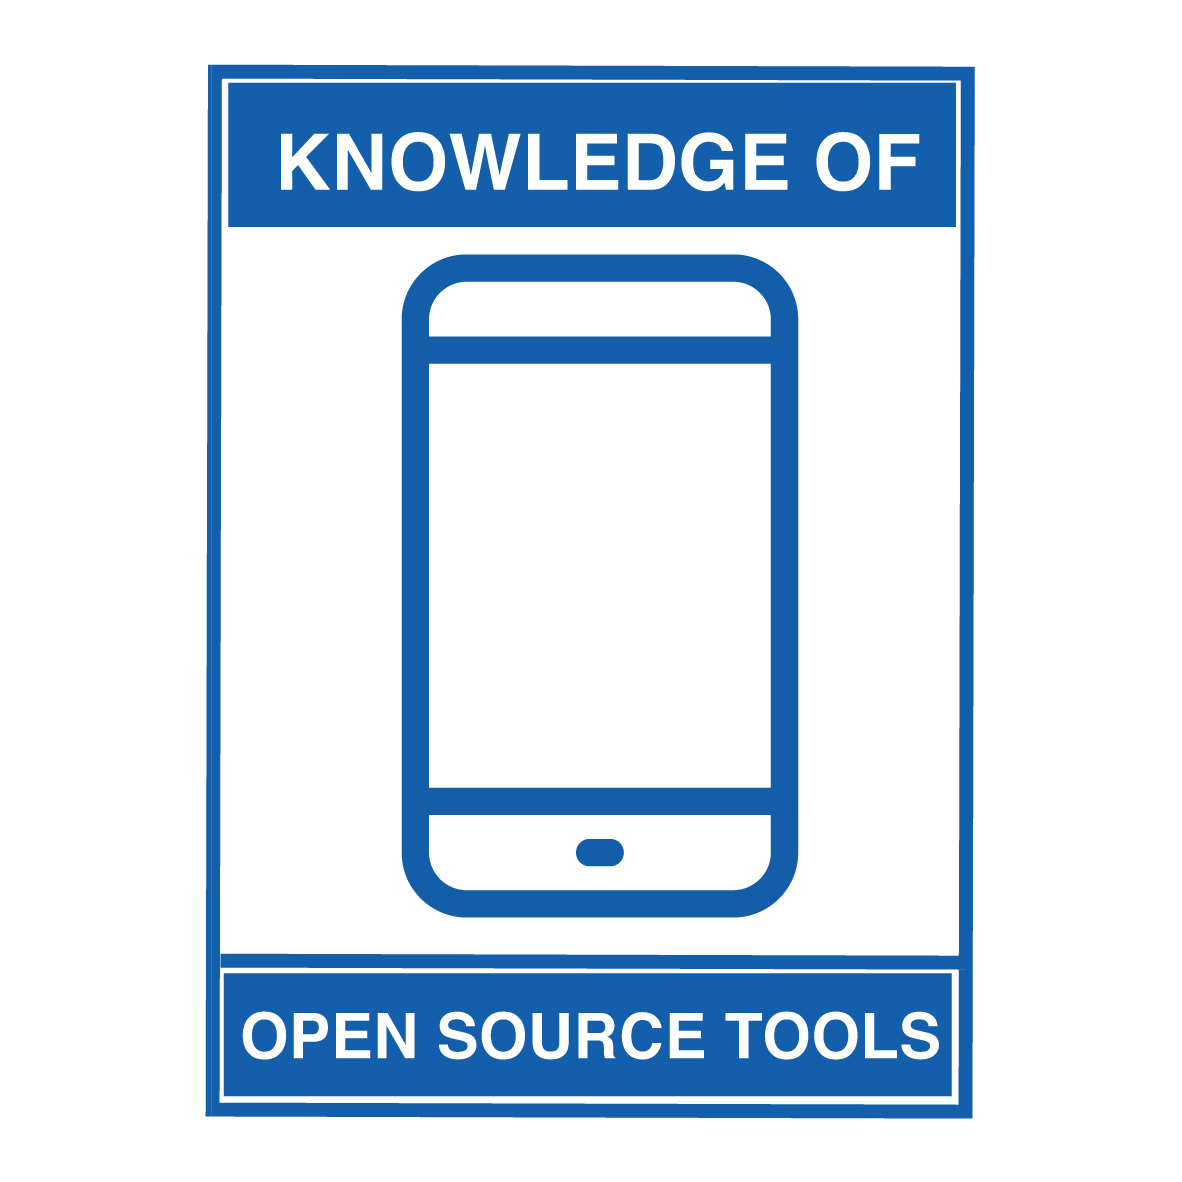
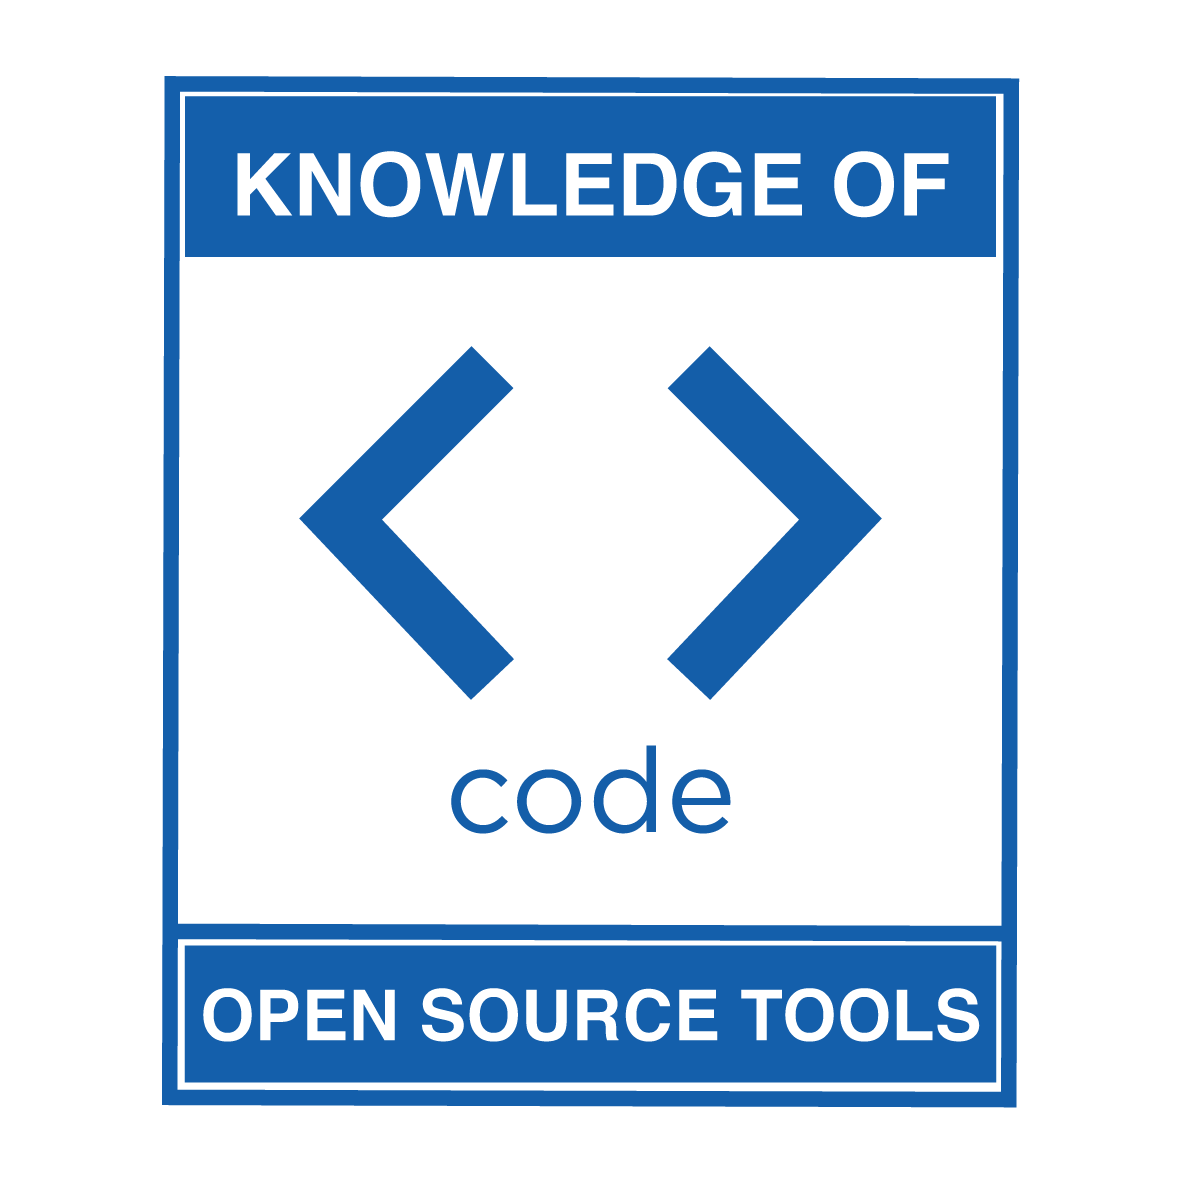
Added stamp images and Prioritizing Feedback blog post

Changed region(s): [[0.1218, 0.0305, 0.8832, 0.9442]]

diff --git a/content/blog/2020-08-14-PrioritizingFeedback.md b/content/blog/2020-08-14-PrioritizingFeedback.md
@@ -1,0 +1,39 @@
+---
+title: "Synthesizing and Prioritizing Feedback"
+date: 2020-08-14 09:00:00
+author: "Ashley"
+main_image: "images/AXIS/AxisLogo.png" # 342px × 178p ~2x1
+main_image_caption: "Image of the AXIS event logo"
+tags: [AXIS", "USABLE", "Feedback Collection", "Guidebook", "ADOPTABLE"]
+draft: false
+---
+
+**Collecting feedback from at-risk users is a critical first step, but it is not the final step in the process. To maximize the impact of the feedback loop between end-users and developers, trainers, auditors, and other facilitators should ensure that the feedback shared is of high quality, relevant, and consistent. This requires time spent reviewing, synthesizing, and prioritizing which pieces of feedback should be shared with the developer. The questions below will help guide trainers, auditors, and facilitators through this process.**
+
+### What are the common areas of confusion or frustration?
+
+It is important to focus on feedback that is common among multiple users. If multiple users are experiencing similar frustrations, this demonstrates that it is a shared challenge and not a one-off “user” error or misunderstanding. Understanding the scale of the issue will also help the developer prioritize the improvement.
+
+### What are the common features or processes that users appreciate or are able to navigate easily?
+
+While it is easy to focus on areas of a tool that users struggle with, it can also be helpful to highlight features or processes that users appreciate. This information will ensure that developers do not change or remove these features in the future.
+
+### How frequently does the user need to complete the frustrating or confusing task?
+
+Consider the frequency of the task, as well as how important the task may be to the overall function of the tool. For example, if the user is struggling with a particular task within the tool, but it is not a task they will need to complete regularly (such as configuring settings), this may not be a priority for the developer. However, if it is a task that the user will need to complete on a regular basis that is causing frustration, this likely will be a priority for the developer. Alternatively, if a task does not need to be completed often, but is essential to the functioning of the tool, this can also be a major barrier that should be prioritized by the developer. For example, if a user struggles to install the program properly or setup the program to run, this may prevent them from properly using the tool, even though it may only need to be completed once.
+
+### Is this piece of feedback relevant and actionable?
+
+The facilitator, trainer, or auditor is also uniquely positioned to ensure that the feedback is relevant and useful. Not all users will have technical knowledge, which will influence the type of feedback that they are able to provide. For example, a user who does not understand how attackers could “spoof” a trusted contact even in a secure communication tool may not understand the importance of verifying contacts by comparing what is often presented as a very long code of letters and numbers, and therefore, never do it. While the specific complaint about the usability could be “this is too difficult / the code is too long;” a facilitator or trainer would be able to identify the root cause and help provide more actionable feedback to the developer. A request to “shorten” the code would likely be met with resistance from a cryptographic / security standpoint, but the trainer can suggest better ways to present critical information to the user (e.g., has the code changed?) and help identify more user-friendly but still cryptographically sound ways to present the information.
+
+### What concrete suggestions can I make based on the feedback collected?
+
+Beyond simply highlighting areas of confusion or frustration, the facilitator, trainer, or auditor is also a valuable voice when it comes to concrete suggestions for improvements. For example, if the language used on a specific button or configuration is confusing, suggest another word that may make the function of the button clearer to users. Similarly, instead of only highlighting that a specific word or phrase was not translated accurately, offer an alternative translation. These specific recommendations are very useful for the developer and give them concrete actions that they can take to improve the usability or accessibility of the tool or application.
+
+### How can I streamline the feedback process and maintain this feedback loop with the developer?
+
+Most developers receive ad-hoc feedback from passionate users, who typically have some level of technical knowledge, but do not usually represent the average user of the tool or application. Trainers, auditors, and facilitators are positioned to capture feedback from real users, prioritize it based on relevance and quality, and share it in a streamlined format. By formalizing this process, trainers and facilitators will be able to share feedback more regularly.
+
+### Stamp for this activity:
+
+<div style="text-align: center"><img src="/images/AXIS/PrioritizingFeedback.png" alt="Image of synthesizing and prioritizing feedback AXIS stamp" style="border: 0; padding: 1em;" /></div>

diff --git a/content/blog/2020-07-31-UXandHCD.md b/content/blog/2020-07-31-UXandHCD.md
@@ -3,12 +3,12 @@ title: "Human-Centered Design and User-Experience"
 date: 2020-07-31 09:00:00
 author: "Megan"
 main_image: "images/AXIS/AxisLogo.png" # 342px × 178p ~2x1
-main_image_caption: ""
+main_image_caption: "Image of the AXIS event logo"
 tags: [AXIS", "USABLE", "HCD", "Guidebook", "ADOPTABLE"]
 draft: false
 ---
 
-**Human-centered design** is a principle that intentionally places humans, their needs, their concerns, and their experiences front and center when building a system. This system could be a piece of software or a product, but it could also be a process like conducting a security assessment or creating a resource for your community. Co-creation is an integral part of human-centered design, products and software that are collaboratively developed are more likely to meet the needs of a broader user base. Components of human-centered design include: 
+**Human-centered design** is a principle that intentionally places humans, their needs, their concerns, and their experiences front and center when building a system. This system could be a piece of software or a product, but it could also be a process like conducting a security assessment or creating a resource for your community. Co-creation is an integral part of human-centered design, products and software that are collaboratively developed are more likely to meet the needs of a broader user base. Components of human-centered design include:
 
 - **Building empathy** with the users
 - **Identifying needs** based on observations, interactions, and user feedback
@@ -37,3 +37,7 @@ By involving trainers in the feedback process through the activities in the [UX 
 - Stanford University https://dschool.stanford.edu/resources/design-thinking-bootleg
 
 - SimplySecure https://simplysecure.org/knowledge-base/
+
+### Stamp for this activity:
+
+<div style="text-align: center"><img src="/images/AXIS/UXandHCD.png" alt="Image of User experience and human centered design AXIS stamp" style="border: 0; padding: 1em;" /></div>

diff --git a/content/blog/2020-08-07-SelectingTool.md b/content/blog/2020-08-07-SelectingTool.md
@@ -3,7 +3,7 @@ title: "Selecting a Tool and Identifying Developers During the Feedback Collecti
 date: 2020-08-07 09:00:00
 author: "Ashley"
 main_image: "images/AXIS/AxisLogo.png" # 342px × 178p ~2x1
-main_image_caption: ""
+main_image_caption: "Image of the AXIS event logo"
 tags: [AXIS", "USABLE", "HCD", "Guidebook", "ADOPTABLE"]
 draft: false
 ---
@@ -31,3 +31,7 @@ To maximize the impact of the feedback you are able to collect, look up the tool
 You may not always be able to know which method of feedback is preferred. If you do and you are comfortable or familiar with this method, contact the developers through this channel. If not, submit the feedback via the method with which you feel most comfortable. Submitting feedback via a less common channel is better than submitting no feedback.
 
 To make things a bit easier, USABLE has put together a quick list of products that have been vocal about wanting feedback from their users. This list of tools can be found *[here](https://usable.tools/pdfs/UXfeedbackCollectionGuidebook_ListOfTools.pdf).*
+
+### Stamp for this activity:
+
+<div style="text-align: center"><img src="/images/AXIS/FeedbackCollection.png" alt="Image of Tool-specific feedback collection AXIS stamp" style="border: 0; padding: 1em;" /></div>
